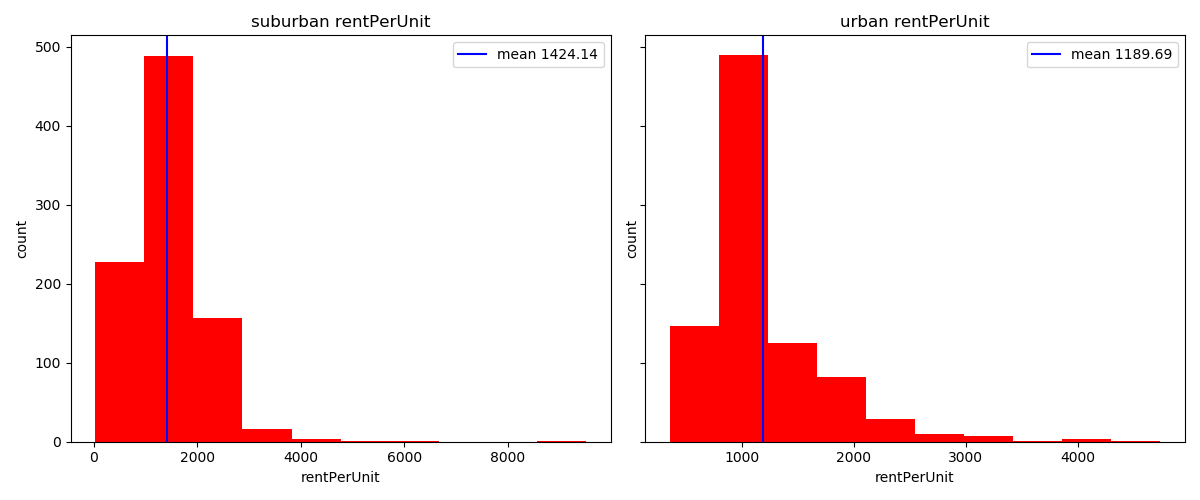
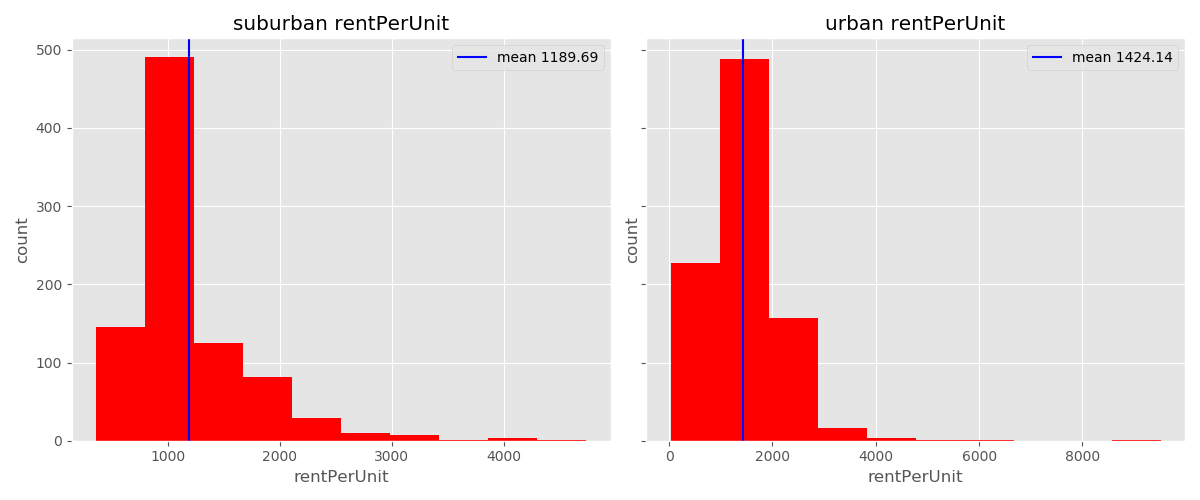
updated imgs

diff --git a/src/data_visualization.py b/src/data_visualization.py
@@ -6,7 +6,7 @@ import folium
 
 
 # I WAS WORKING HERE BUT NEED TO FINISH README
-def plot_side_by_side_hist(suburban_df, urban_df):
+def plot_side_by_side_hist(sub, urb):
     feature_columns = ['amount', 'rent', 'rentPerUnit', 'initialInvestment', 'monthlyCashFlow', 'oneYearNWROI']
     
     for i in feature_columns:
@@ -117,12 +117,12 @@ if __name__ == '__main__':
     # suburbs_df = pd.read_csv('/Users/isaacramirez/code/dsi/capstone-I/data/zillowQuerySuburb.csv')
     # urban_denver_df = pd.read_csv('/Users/isaacramirez/code/dsi/capstone-I/data/zillowQueryUrban.csv')
 
-    suburbs_zillow_df = pd.read_csv('/home/jovyan/work/code/dsi/capstone-I/data/zillow_api/suburbanZillowQuery.csv')
-    urban_denver_zillow_df = pd.read_csv('/home/jovyan/work/code/dsi/capstone-I/data/zillow_api/urbanZillowQuery.csv')
+    suburbs_zillow_df = pd.read_csv('/Users/isaacramirez/code/dsi/capstone-I/data/zillow_api/suburbanZillowQuery.csv')
+    urban_denver_zillow_df = pd.read_csv('/Users/isaacramirez/code/dsi/capstone-I/data/zillow_api/urbanZillowQuery.csv')
 
     # denver_map()
-    # plot_histograms(suburbs_df, urban_denver_df)
-    # create_bar_charts(suburbs_df, urban_denver_df)
+    plot_side_by_side_hist(suburbs_zillow_df, urban_denver_zillow_df)
+    create_bar_charts(suburbs_zillow_df, urban_denver_zillow_df)
     # y_col = ['amount', 'rent', 'rentPerUnit', 'initialInvestment', 'monthlyCashFlow', 'oneYearNWROI']
 
     # for y in y_col:

diff --git a/README.md b/README.md
@@ -5,7 +5,7 @@
 1. Overview/Background
 2. Project Questions/Goal
 3. Data
-4. EDA
+4. Exporatory Data Analysis (EDA)
 5. Analysis
 6. Conclusion
 7. References
@@ -72,18 +72,19 @@ The final dataset consist of 894 rows and 41 columns for both urban and suburban
 ### Feature Columns
 To achieve my project goals I went deeper into these feature columns:
 
+e.g Suburbs dataset
+
 ![feature_columns](https://github.com/isaacramiez00/Urban-vs-Suburban/blob/develop/img/feature_columns.png)
 
-# Data Vizualization
+# Exploratory Data Analysis (EDA)
 
-These are the areas I sampled from to the API:
+Visible areas I sampled from the API:
 * Red - Suburban
 * Blue - Urban
 
 ![denverMap](https://github.com/isaacramiez00/Urban-vs-Suburban/blob/develop/img/denver_map.png)
 
-One of the following questions I wanted to explore was what property types are
-the most common among the to different communities.
+#### What are the most common property types in each living area?
 
 Based on our findings, we see Single Family Homes excess the greatest amount of
 property type followed by Townhouse with an average count difference of 758 for 
